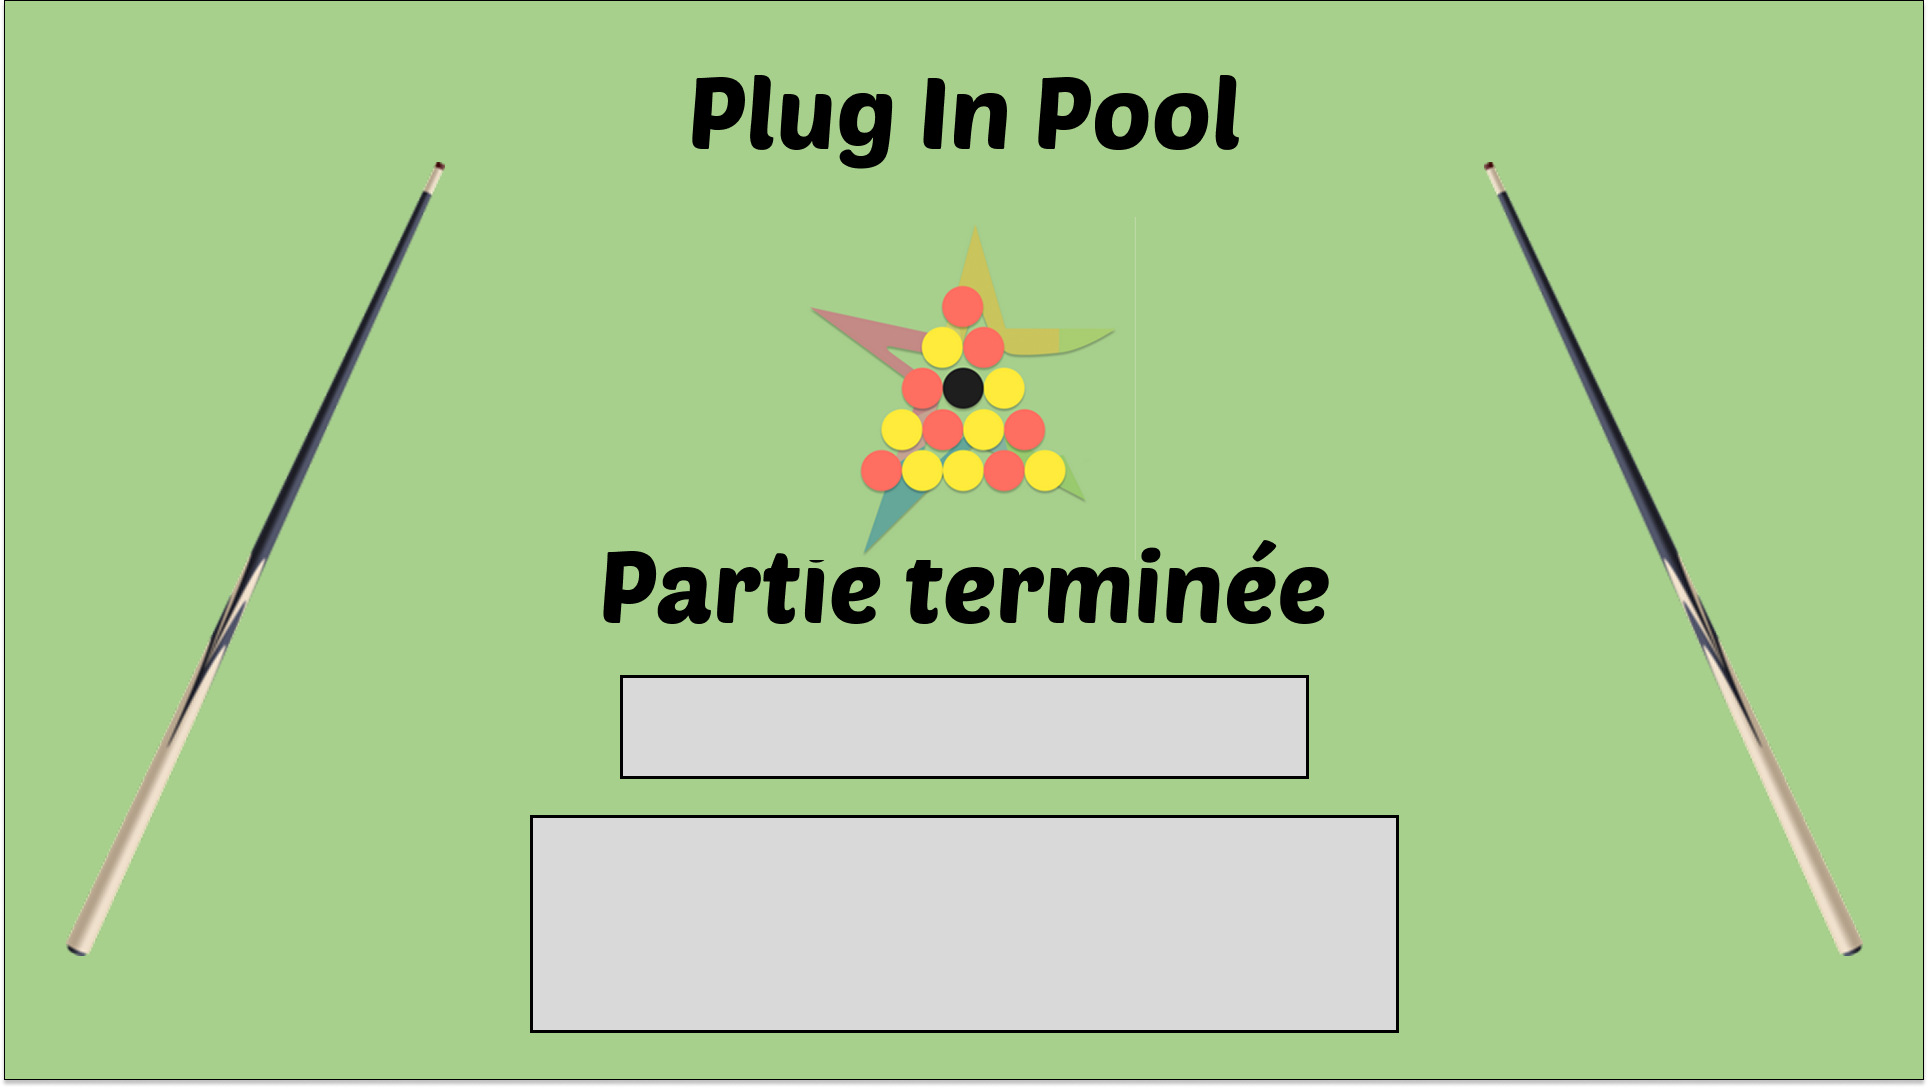
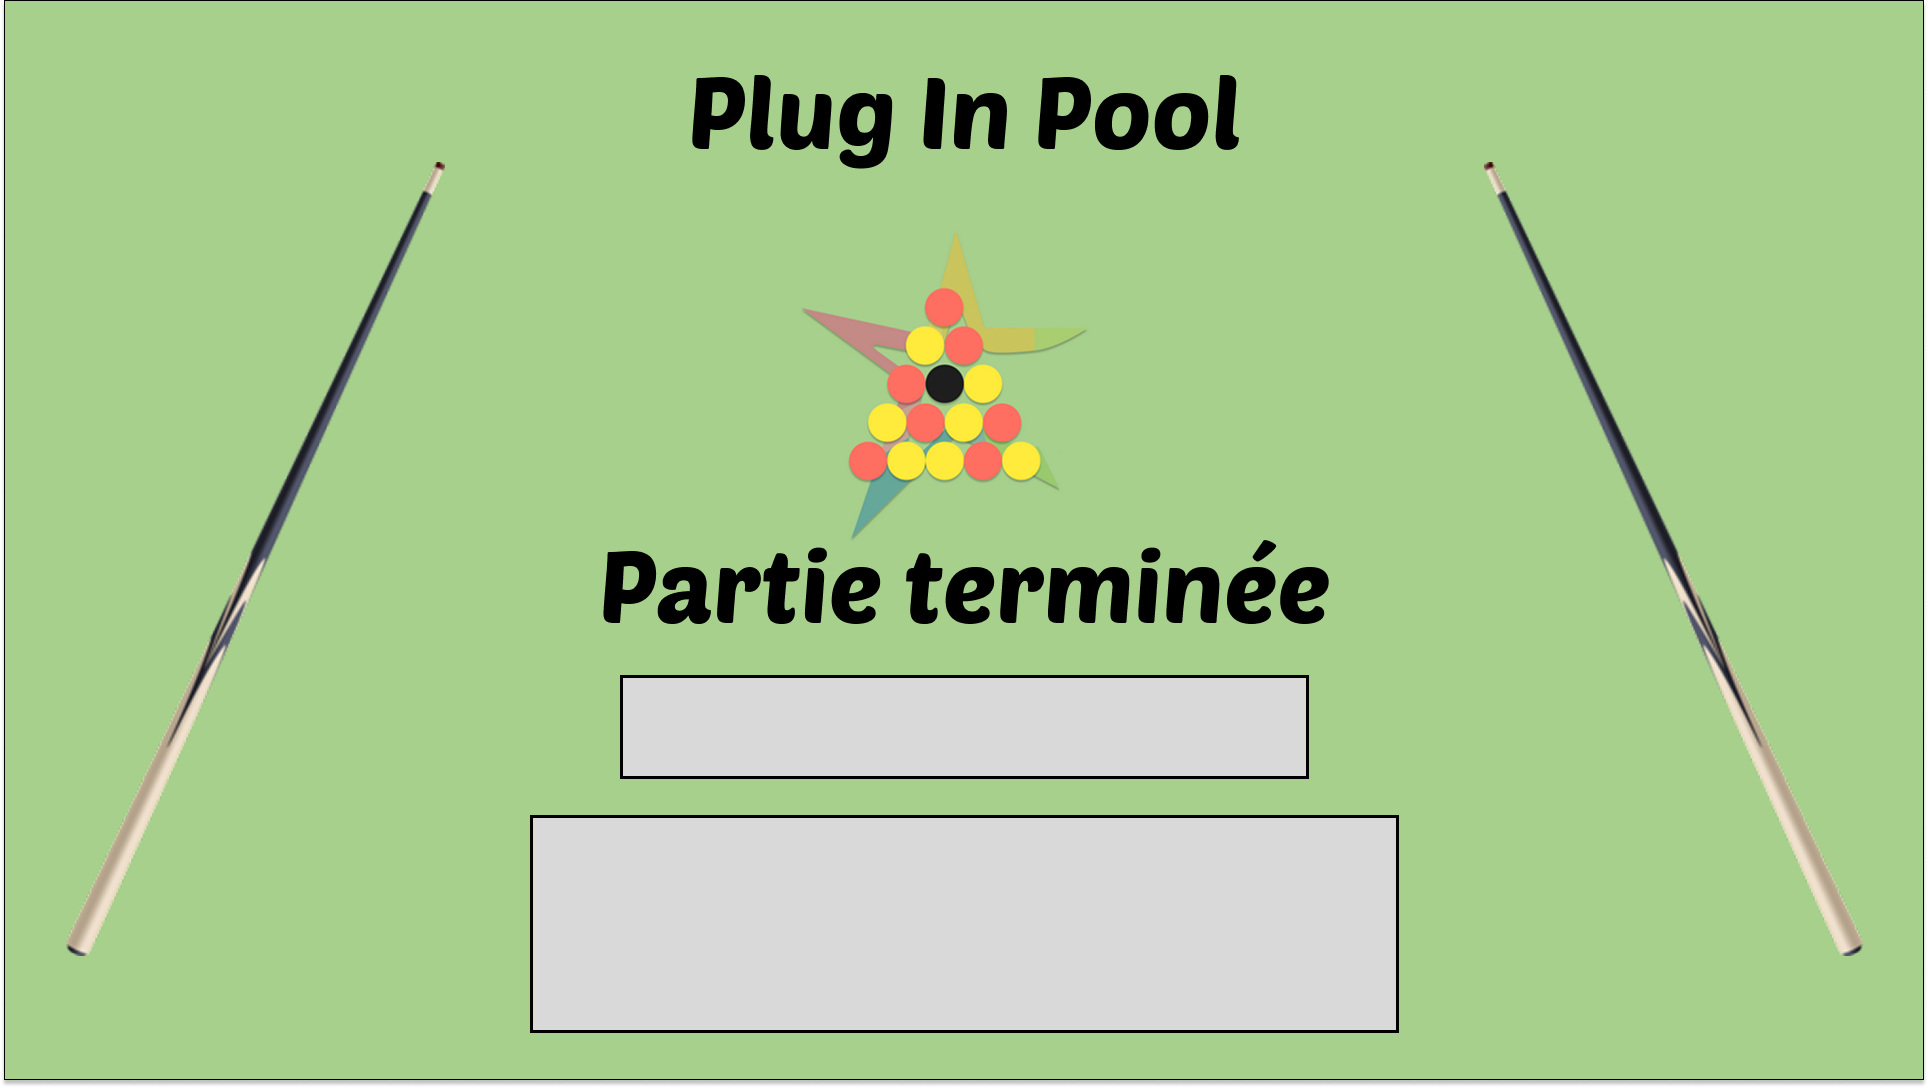
Modifier fond ecran fin

Changed region(s): [[0.4046, 0.2188, 0.5913, 0.5], [0.4046, 0.5, 0.4357, 0.5312]]

diff --git a/plug-in-pool-visualisation/ecranfin.cpp b/plug-in-pool-visualisation/ecranfin.cpp
@@ -19,15 +19,17 @@ EcranFin::EcranFin(QWidget* parent) : QObject(parent), ecran(parent)
 
     espaceVersion->addStretch();
     espaceVersion->addWidget(affichageVersion);
+    espaceVersion->addStretch();
 
     espaceJoueurGagnant->addStretch();
     espaceJoueurGagnant->addWidget(affichageJoueurGagnant);
     espaceJoueurGagnant->addStretch();
 
+    ecranFin->addStretch();
     ecranFin->addLayout(espaceVersion);
-    ecranFin->addSpacing(620);
+    ecranFin->addSpacing(480);
     ecranFin->addLayout(espaceJoueurGagnant);
-    ecranFin->addSpacing(80);
+    ecranFin->addSpacing(160);
     ecranFin->addStretch();
 }
 

diff --git a/plug-in-pool-visualisation/ecranpluginpool.cpp b/plug-in-pool-visualisation/ecranpluginpool.cpp
@@ -53,8 +53,9 @@ EcranPlugInPool::EcranPlugInPool(QWidget* parent) :
     showFullScreen();
 #endif
 
-    afficherEcranAccueil();
+    // afficherEcranAccueil();
     // afficherEcranMatch();
+    afficherEcranFin();
 }
 
 EcranPlugInPool::~EcranPlugInPool()
